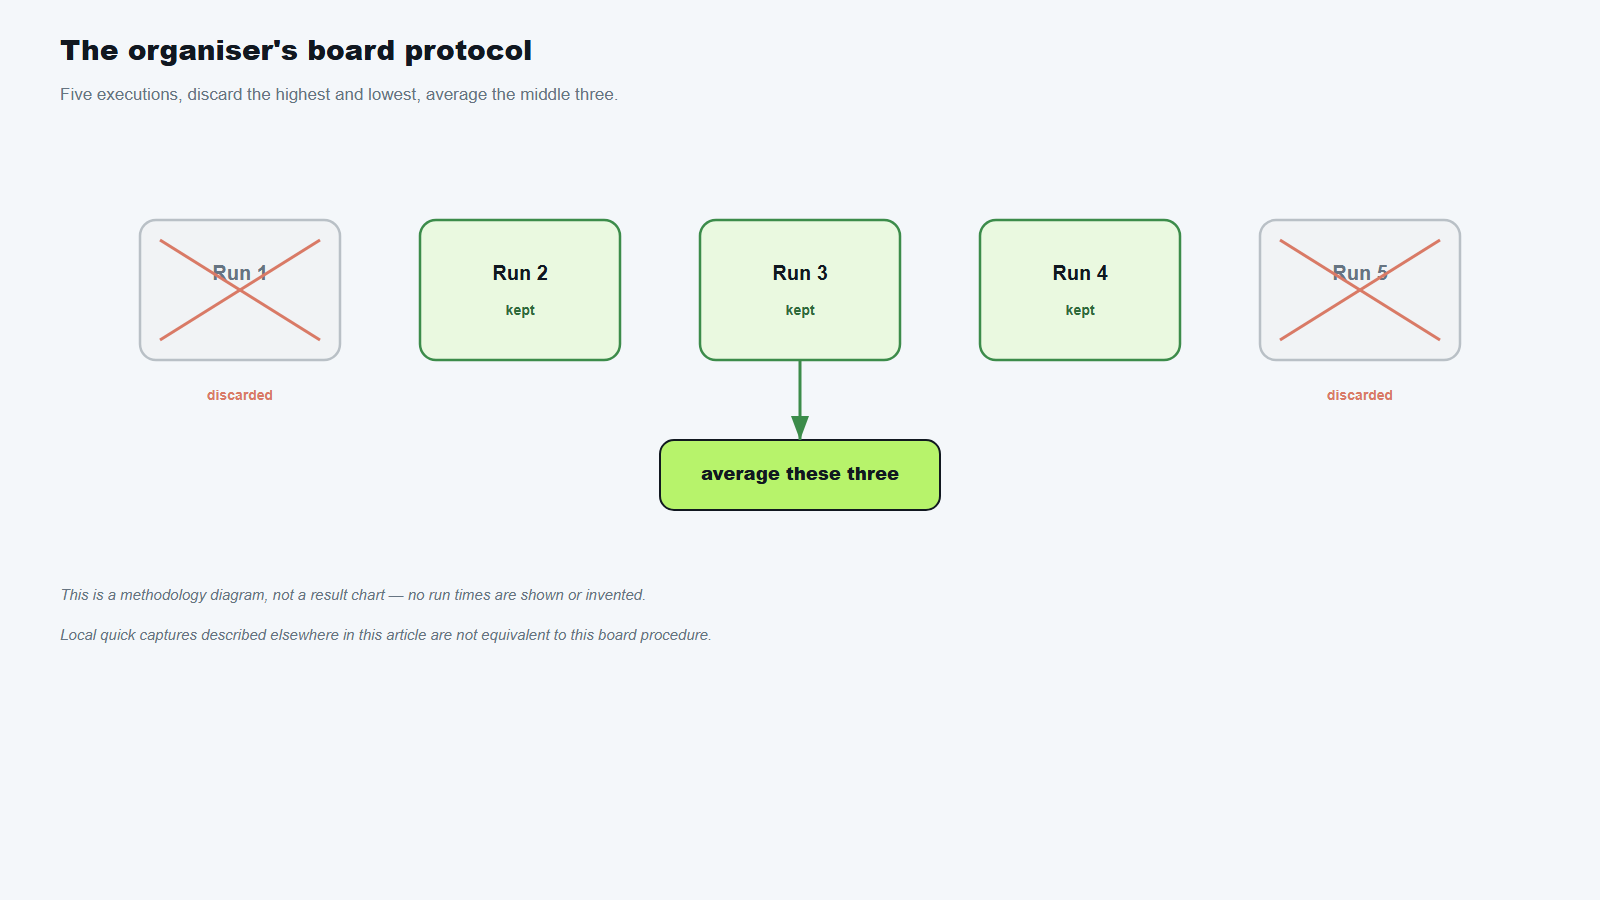
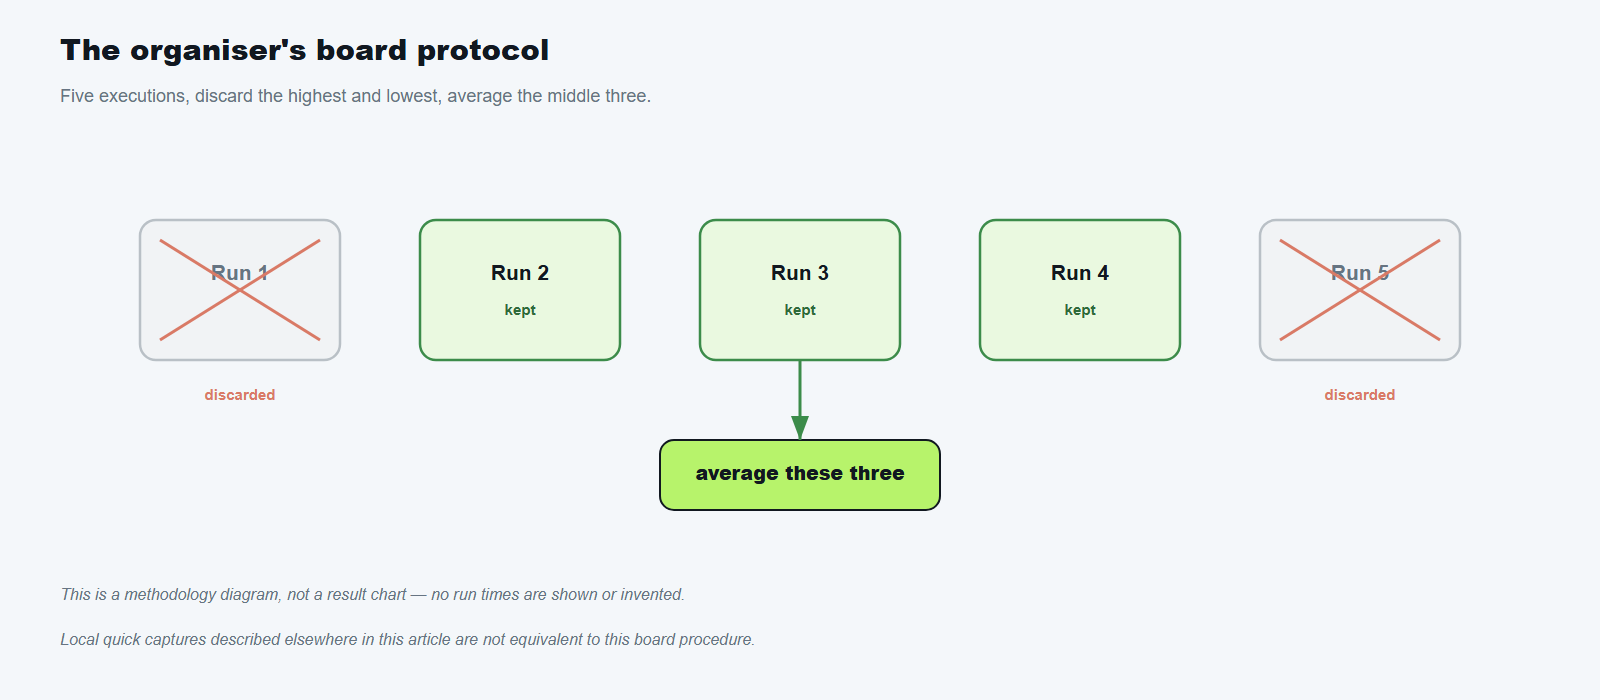
Fix small/unreadable diagrams and a table overflowing on mobile
7 diagrams (V01, V04, V05, V07, V09, V10, V15) had 25-55% of their
canvas as empty white space below the actual content. That wasted
space meant the real content occupied a smaller fraction of the image
once scaled down to the article's ~768px column, making text look
small and hard to read. Rebuilt each with a tightened canvas and, for
V07, repositioned content that had empty space on both top and bottom.
V01's cards also had their own internal dead space, not just a canvas
issue, so those were resized directly.

Caught and fixed a regression during this pass: an early version of
V10 had its canvas width cropped along with the height, which clipped
the bottom summary box off the right edge. Verified visually before
shipping and corrected before it went out.

ExperimentsTable (V06) was forcing min-w-640px, which overflowed past
the screen edge on mobile instead of adapting - exactly the reported
symptom of data running out of the box. Replaced with a responsive
split: the full table on desktop/tablet (md and up), the same data as
stacked cards on mobile (no fixed width, nothing overflows). Verified
on a real mobile-width render before pushing.

diff --git a/src/components/blog/SpeedDemonArticle.tsx b/src/components/blog/SpeedDemonArticle.tsx
@@ -158,26 +158,44 @@ function ExperimentsTable() {
     ['Shared name table (C)', 'Lower peak memory', '66 MB → 15 MB; slower locally', 'KEPT for score trade-off'],
   ];
   return (
-    <div className="my-8 overflow-x-auto rounded-2xl border" style={{ borderColor: 'var(--border-color)' }}>
-      <table className="w-full text-sm font-mono border-collapse min-w-[640px]">
-        <thead>
-          <tr style={{ backgroundColor: '#111820' }}>
-            {['Experiment', 'Expectation / local signal', 'Board observation', 'Decision'].map((h) => (
-              <th key={h} className="text-left px-4 py-3 text-white font-semibold">{h}</th>
-            ))}
-          </tr>
-        </thead>
-        <tbody>
-          {rows.map((r) => (
-            <tr key={r[0]} style={{ borderTop: '1px solid var(--border-color)', backgroundColor: 'var(--card-bg)' }}>
-              <td className="px-4 py-3" style={{ color: 'var(--text-primary)' }}>{r[0]}</td>
-              <td className="px-4 py-3" style={{ color: 'var(--text-secondary)' }}>{r[1]}</td>
-              <td className="px-4 py-3" style={{ color: 'var(--text-secondary)' }}>{r[2]}</td>
-              <td className="px-4 py-3 font-bold" style={{ color: r[3].startsWith('KEPT') ? '#2E6B3A' : '#C45B45' }}>{r[3]}</td>
+    <div className="my-8">
+      {/* Desktop/tablet: full table. Hidden below md so it never forces horizontal
+          scroll on a phone — a fixed-width table was spilling past the screen edge. */}
+      <div className="hidden md:block overflow-x-auto rounded-2xl border" style={{ borderColor: 'var(--border-color)' }}>
+        <table className="w-full text-sm font-mono border-collapse">
+          <thead>
+            <tr style={{ backgroundColor: '#111820' }}>
+              {['Experiment', 'Expectation / local signal', 'Board observation', 'Decision'].map((h) => (
+                <th key={h} className="text-left px-4 py-3 text-white font-semibold">{h}</th>
+              ))}
             </tr>
-          ))}
-        </tbody>
-      </table>
+          </thead>
+          <tbody>
+            {rows.map((r) => (
+              <tr key={r[0]} style={{ borderTop: '1px solid var(--border-color)', backgroundColor: 'var(--card-bg)' }}>
+                <td className="px-4 py-3" style={{ color: 'var(--text-primary)' }}>{r[0]}</td>
+                <td className="px-4 py-3" style={{ color: 'var(--text-secondary)' }}>{r[1]}</td>
+                <td className="px-4 py-3" style={{ color: 'var(--text-secondary)' }}>{r[2]}</td>
+                <td className="px-4 py-3 font-bold" style={{ color: r[3].startsWith('KEPT') ? '#2E6B3A' : '#C45B45' }}>{r[3]}</td>
+              </tr>
+            ))}
+          </tbody>
+        </table>
+      </div>
+
+      {/* Mobile: the same data as stacked cards, no fixed width, nothing overflows. */}
+      <div className="md:hidden flex flex-col gap-3">
+        {rows.map((r) => (
+          <div key={r[0]} className="rounded-xl border p-4 text-sm font-mono" style={{ borderColor: 'var(--border-color)', backgroundColor: 'var(--card-bg)' }}>
+            <p className="font-sans font-bold mb-2" style={{ color: 'var(--text-primary)' }}>{r[0]}</p>
+            <p className="text-[11px] font-sans uppercase tracking-wide mb-0.5" style={{ color: 'var(--text-secondary)', opacity: 0.7 }}>Expectation</p>
+            <p className="mb-2" style={{ color: 'var(--text-secondary)' }}>{r[1]}</p>
+            <p className="text-[11px] font-sans uppercase tracking-wide mb-0.5" style={{ color: 'var(--text-secondary)', opacity: 0.7 }}>Board observation</p>
+            <p className="mb-2 break-words" style={{ color: 'var(--text-secondary)' }}>{r[2]}</p>
+            <p className="font-bold" style={{ color: r[3].startsWith('KEPT') ? '#2E6B3A' : '#C45B45' }}>{r[3]}</p>
+          </div>
+        ))}
+      </div>
     </div>
   );
 }
